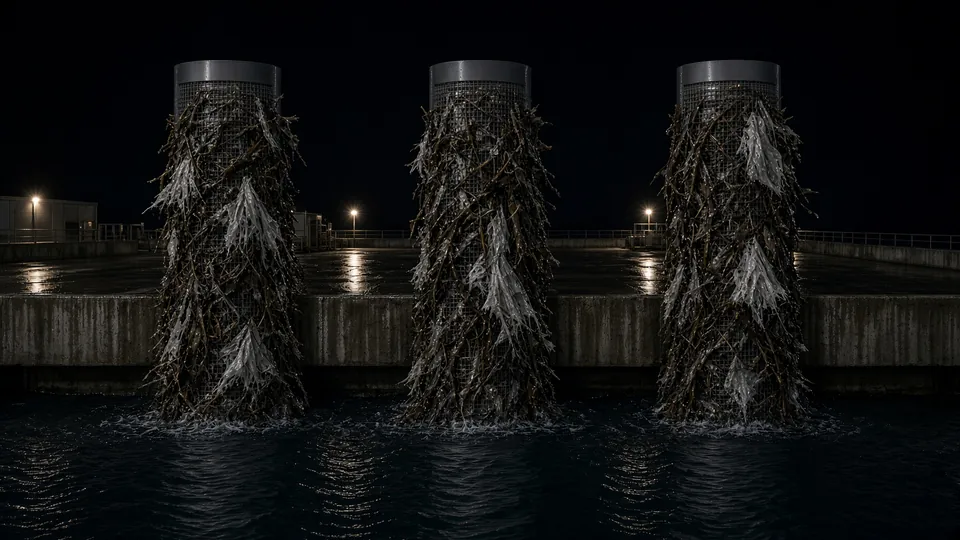
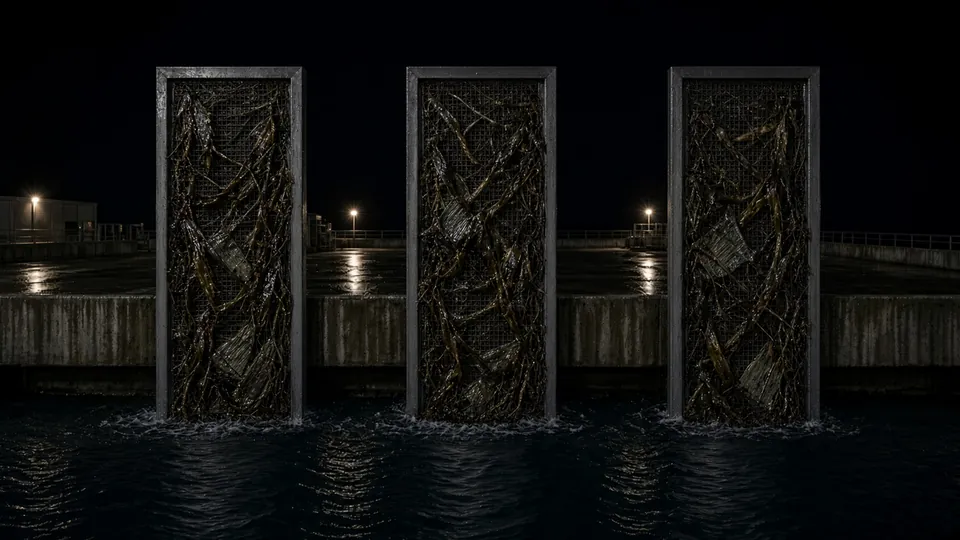
Part A10: intake screens are flat mesh panels
The round columns are gone. Both plates share the same water and the same three slots. The anchor check passed, so the new plates stayed.

Grok <noreply@x.ai>

diff --git a/src/game/nightwatch/plates.ts b/src/game/nightwatch/plates.ts
@@ -71,7 +71,7 @@ export const PLATES: Record<string, PlateSpec> = {
   intake: {
     file: "/nightwatch/plates/intake.webp",
     states: {
-      debris: { file: "/nightwatch/plates/intake-debris.webp", measured: [76, 42, 323, 213], box: [68, 34, 339, 229] },
+      debris: { file: "/nightwatch/plates/intake-debris.webp", measured: [0, 33, 476, 237], box: [0, 25, 480, 245] },
     },
   },
 };

diff --git a/docs/audit/2026-11-21-rotation/PROGRESS.md b/docs/audit/2026-11-21-rotation/PROGRESS.md
@@ -16,7 +16,7 @@ Branch made by Claude: `g/nw-plates` + `c/crew-outage-1118` merged. Full suite a
 - A7 done · hardhat-corridor is on camera aux. The corridor state plate is what shows. The yellow code hat on the turbine is deleted. Oddities do not flash.
 - A8 done · Pressurizer words were a small board on a larger white sign. They are rebaked to fill it (about 124×64). Before and after crops are in visual/.
 - A9 done · Cherenkov is a vertical strip rising out of the cells, brighter at the bottom. Every fifth cell stays dark. The round lamp dots are gone.
-- A10 todo · Intake screens
+- A10 done · Intake screens are flat framed mesh in the same three slots, not round columns. Debris is the same camera with kelp on the mesh. Screen edges stay within 8 px of 80, 144, 210, 274, 340 and 404. The beacon spot stays dark. New plates kept.
 - A11 todo · Shoot the before-and-after sheet
 
 ## Part B
